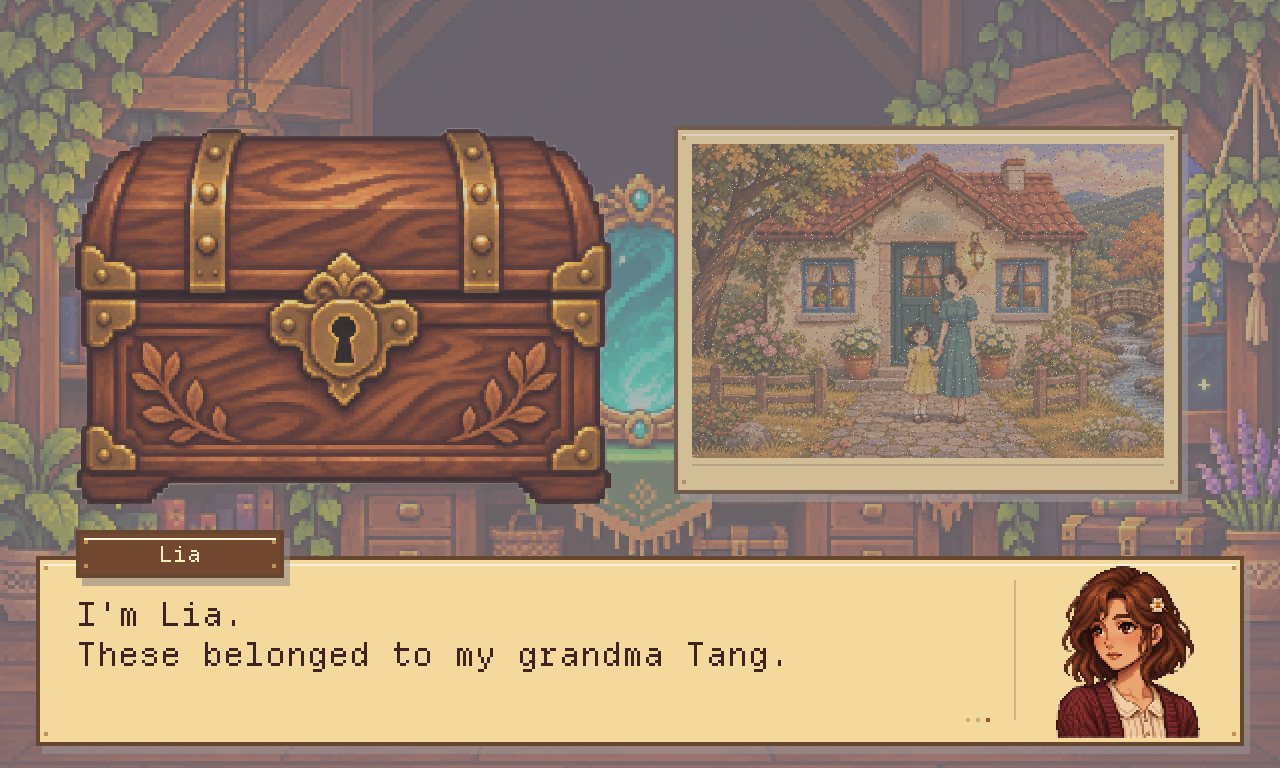
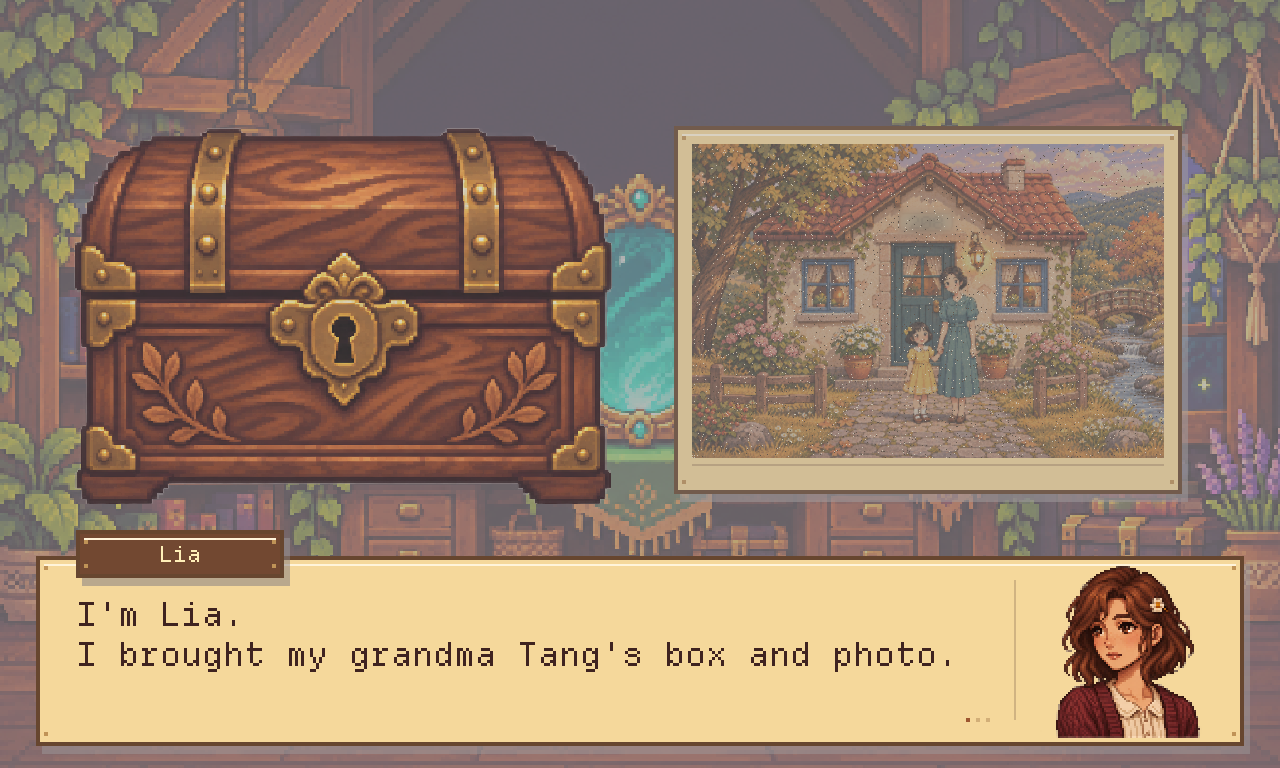
Connect Lia's request to each restored memory

Changed region(s): [[0.0625, 0.8438, 0.75, 0.875]]

diff --git a/src/StoryScript.h b/src/StoryScript.h
@@ -20,11 +20,14 @@ inline std::vector<Speech> opening(){return {
     {"You","This is my little archive.\ntonton is my helper and my friend.",0,Cue::None,true},
     {"You","Someone is at the door.",0,Cue::Doorbell,true},
     {"tonton","Welcome to Mirror Archive!\nHow can we help?",1},
-    {"Lia","I'm Lia.\nThese belonged to my grandma Tang.",0,Cue::ShowKeepsakes},
-    {"You","Please, take your time.\nTell me about her."},
-    {"Lia","Grandma died last month.\nI miss her.",1},
-    {"Lia","She said the password was her first\nhome's address, but I've never been there."},
-    {"You","I'll take good care of them.\nLet's find that house number."},
+    {"Lia","I'm Lia.\nI brought my grandma Tang's box and photo.",0,Cue::ShowKeepsakes},
+    {"You","Take your time.\nWhat would you like us to help with?"},
+    {"Lia","Grandma died last month.\nI miss her so much.",1},
+    {"Lia","I want to know what's inside this box.\nI haven't been able to open it.",1},
+    {"You","Did she ever mention the password?"},
+    {"Lia","She said it was her first house number,\nbut I've never seen that house."},
+    {"You","Maybe the number is in this old photo.\nLet's take a closer look."},
+    {"tonton","The house number has faded.\nLet's restore the photo first.",1,Cue::None,false,Focus::Ready},
     {"tonton","Let's start with Clean.\nDrag over the photo to remove dust.",1,Cue::None,false,Focus::Clean},
     {"tonton","Use Contrast to bring back faded ink.",0,Cue::None,false,Focus::Contrast},
     {"tonton","Use Detail to make small edges clearer.",0,Cue::None,false,Focus::Detail},
@@ -36,28 +39,32 @@ inline std::vector<Speech> opening(){return {
 
 inline std::vector<Speech> foundNumber(){return {
     {"tonton","Nice work!",3},
+    {"tonton","Now let's use the password from the photo\nto open the box."},
     {"tonton","Write one number in each box."},
-    {"tonton","Check the small windows before\npressing Open."},
-    {"tonton","Let's try your number!",1}
+    {"tonton","Check the numbers above your writing\nbefore pressing Open."},
+    {"tonton","Let's see if it opens!",1}
 };}
 
 inline std::vector<Speech> foundEnvelope(){return {
     {"tonton","It opened! You did it!",3},
     {"tonton","There's an envelope inside.",2},
-    {"tonton","Let's open it!",1}
+    {"tonton","Let's see what's inside!",1}
 };}
 inline std::vector<Speech> foundMap(){return {
     {"tonton","There's a map inside!",2},
     {"tonton","It says, 'For my sweetheart Tang.'\nThat's Lia's grandma!",1},
-    {"tonton","Click a map house to see it\nbeside your own photo."},
-    {"tonton","Use Photo if you want to keep repairing."},
-    {"tonton","Let's find her home!\nPress Start camera when you're ready.",1}
+    {"tonton","This looks like a little game.\nLet's guide the letter to her first home."},
+    {"You","The house in the old photo is our clue."},
+    {"tonton","Click a map house to compare it\nwith the house in your photo."},
+    {"tonton","Use Photo if you need a clearer look."},
+    {"tonton","Let's follow the map!\nPress Start camera when you're ready.",1}
 };}
 inline std::vector<Speech> cameraGuide(){return {
-    {"tonton","Hold your hand in the middle first."},
-    {"tonton","Move it to one side and wait\nfor the ring to fill."},
-    {"tonton","Bring it back to the middle\nbefore choosing another direction."},
-    {"tonton","Let's give it a try!",1}
+    {"tonton","Show your hand in the middle of the view."},
+    {"tonton","Move your hand to one side.\nHold it there until the ring fills."},
+    {"tonton","The letter follows the path and stops\nat the next corner or fork."},
+    {"tonton","Bring your hand back to the middle\nbefore choosing the next direction."},
+    {"tonton","Let's bring it home!",1}
 };}
 inline std::vector<Speech> reachedHome(){return {
     {"tonton","You brought it home!\nGreat work!",3},
@@ -65,18 +72,29 @@ inline std::vector<Speech> reachedHome(){return {
     {"tonton","Let's turn it over.\nClick the folded corner.",1}
 };}
 
+inline std::vector<Speech> wrongHouse(){return {
+    {"tonton","This house looks different from the photo.\nLet's look at them side by side."}
+};}
+inline std::vector<Speech> tryPasswordAgain(){return {
+    {"tonton","The numbers above show what I read.\nUse Clear if a number looks wrong."},
+    {"tonton","If they match your writing,\nlet's check the photo again."}
+};}
+
 inline std::vector<Speech> ending(bool peopleRestored=false){return {
+    {"You","Your grandma's mother left her a message\non the back of the map."},
     {"Lia","Grandma always left a light on for me.\nNow I know why.",1},
-    {"You","You do not have to stop missing her.\nYou can keep her love with you."},
+    {"Lia","I wish I could thank her one more time.",1},
+    {"You","I know you miss her.\nI hope this helps you feel close to her."},
     {"You","Here is the photo I worked on.\nTake it home with the letter.",0,Cue::ReturnPhoto},
     {"Lia",peopleRestored?"I can see them holding hands.\nGrandma held my hand like that, too.":"Thank you for taking care of her photo.\nI will keep it close.",2},
     {"Lia","I'll put them by my bed.\nI'll keep a light on, too.",2},
-    {"You","Take care, Lia.\nCome back any time."},
-    {"Lia","I will. Thank you, both of you.",2},
+    {"You","Take care, Lia.\nYou are always welcome here."},
+    {"Lia","Thank you, both of you.\nI will come back.",2},
     {"You","I watch Lia leave with her photo.\nThe room feels quiet again.",0,Cue::LiaLeaves,true},
-    {"tonton","We fixed more than a photo today.",3},
-    {"You","We helped her bring a little of\nhome back with her."},
-    {"tonton","Another light left on.",1},
+    {"tonton","I'm glad she came to us.",1},
+    {"You","Me too.\nI'm glad we could help."},
+    {"tonton","Shall we leave a light on tonight?",1},
+    {"You","Yes. Someone else may need our help\ntomorrow."},
     {"You","I put away my tools.\nIt is time to go home.",0,Cue::None,true}
 };}
 

diff --git a/tests/HomewardTests.cpp b/tests/HomewardTests.cpp
@@ -86,25 +86,33 @@ int main(int argc,char** argv){try{
     check(arrival.size()==3&&arrival[1].words.find("back")!=std::string::npos,"Only arrival reveals the writing on the back");
     check(number[0].happy==3&&envelope[0].happy==3&&arrival[0].happy==3,"Each chapter ends with a happy encouragement");
     auto personal=story::ending(true),quiet=story::ending(false);
-    check(personal[3].words!=quiet[3].words&&personal[3].words.find("held my hand")!=std::string::npos,"Lia responds to the player's actual family repair");
+    auto findLine=[](const std::vector<story::Speech>& script,const std::string& phrase){for(size_t i=0;i<script.size();++i)if(script[i].words.find(phrase)!=std::string::npos)return int(i);return -1;};
+    check(findLine(personal,"held my hand")>=0&&findLine(quiet,"held my hand")==-1,"Lia responds to the player's actual family repair");
     auto opening=story::opening(),ending=story::ending();
     check(opening.front().speaker=="You"&&opening.front().narration,"The player introduces their archive without a speaker plate");
     check(!opening[5].narration&&opening[5].speaker=="You","Spoken player dialogue retains its nameplate");
-    check(ending[7].narration&&ending.back().narration,"Departure and closing thoughts are narration");
+
     int bell=-1,greeting=-1,handover=-1,leave=-1;
     for(size_t i=0;i<opening.size();++i){if(opening[i].cue==story::Cue::Doorbell)bell=i;if(opening[i].speaker=="tonton"&&greeting<0)greeting=i;}
     check(bell>=0&&bell<greeting,"Doorbell comes before the assistant's greeting");
     for(size_t i=0;i<ending.size();++i){if(ending[i].cue==story::Cue::ReturnPhoto)handover=i;if(ending[i].cue==story::Cue::LiaLeaves)leave=i;}
     check(handover>=0&&leave>handover,"Photo is returned before Lia leaves");
+    check(ending[leave].narration&&ending.back().narration,"Departure and closing thoughts are narration");
+    int request=findLine(opening,"inside this box"),password=findLine(opening,"mention the password"),tools=findLine(opening,"start with Clean");
+    check(findLine(opening,"miss her so much")>=0&&request>findLine(opening,"miss her so much")&&password>request&&tools>password,"Lia's grief and request explain the task before the tools");
+    int bridge=findLine(number,"password from the photo");
+    check(bridge>0&&bridge<findLine(number,"Write one number"),"The photo clue connects celebration to opening the box");
+    check(findLine(map,"old photo is our clue")>=0&&findLine(map,"old photo is our clue")<findLine(map,"Click a map house"),"The map goal and photo clue precede the controls");
+    check(findLine(map,"grandma's mother")==-1&&findLine(ending,"grandma's mother")>=0&&findLine(ending,"grandma's mother")<findLine(ending,"Now I know why"),"The mother's message is explained only after reading it, before Lia's response");
     bool playerAfter=false,helperAfter=false;
     for(size_t i=leave+1;i<ending.size();++i){playerAfter|=ending[i].speaker=="You";helperAfter|=ending[i].speaker=="tonton";}
     check(playerAfter&&helperAfter,"The player and helper share the final conversation");
-    auto camera=story::cameraGuide();
+    auto camera=story::cameraGuide(),wrongHouse=story::wrongHouse(),retry=story::tryPasswordAgain();
     check(story::dedication=="For my sweetheart Tang"&&story::letter.find("My dear Tang,")==0,"Map and letter use the requested affectionate wording");
     check(number[0].words.find("Write")==std::string::npos&&arrival[0].words.find("back")==std::string::npos,"Celebrations are separate from instructions and story reveals");
     std::set<story::Focus> highlights;for(auto speech:opening)if(speech.focus!=story::Focus::None)highlights.insert(speech.focus);
     check(highlights.size()==7,"Each photo tool or setting has its own spotlight, followed by an invitation");
-    for(auto script:{opening,ending,personal,number,envelope,map,arrival,camera})for(auto speech:script){
+    for(auto script:{opening,ending,personal,number,envelope,map,arrival,camera,wrongHouse,retry})for(auto speech:script){
         std::istringstream lines(speech.words);std::string line;int count=0;
         while(std::getline(lines,line)){++count;check(line.size()<=44,"NPC line fits the native pixel font");}
         check(count<=2,"Each dialogue box is at most two short lines");

diff --git a/src/ofApp.cpp b/src/ofApp.cpp
@@ -194,7 +194,7 @@ void ofApp::update(){
     if(chapter==2&&(screen==Screen::Play||screen==Screen::Dialogue))updateCamera(now);
     if(moveDuration>0&&screen==Screen::Play&&now>=moveAt+moveDuration){moveDuration=0;
         if(maze.solved())finishChapter();
-        else if(maze.house(maze.position)&&!wrongHomeHint){wrongHomeHint=true;say({{"tonton","This looks different from the photo.\nLet's compare them again."}});}
+        else if(maze.house(maze.position)&&!wrongHomeHint){wrongHomeHint=true;say(story::wrongHouse());}
     }
     for(int i=0;i<3;++i)if(inkDue[i]>0&&now>=inkDue[i]&&drawingCell!=i){guesses[i]=reader.guess(writing[i]);recognized[i]=guesses[i].digit;inkDue[i]=0;}
     if(screen==Screen::Play&&chapter==2&&moveDuration<=0&&inspectedHouse<0&&cameraTipPending){
@@ -596,7 +596,7 @@ void ofApp::pointerDown(glm::vec2 p){
             for(int i=0;i<3;++i)if(inkDue[i]>0){guesses[i]=reader.guess(writing[i]);recognized[i]=guesses[i].digit;inkDue[i]=0;}
             if(recognized==std::array<int,3>{2,0,8})finishChapter();
             else{notice="The box is still locked.";noticeUntil=ofGetElapsedTimef()+3;
-                if(++lockAttempts==2)say({{"tonton","Check the small number windows.\nIf they look right, check the photo."}});}
+                if(++lockAttempts==2)say(story::tryPasswordAgain());}
         }
     }else{
         if(delivered){if(nextButton.inside(p)){screen=Screen::Letter;letterOpened=false;letterAt=ofGetElapsedTimef();}return;}
@@ -656,9 +656,12 @@ void ofApp::runQA(){
         if(cue==story::Cue::Doorbell){capture("qa-doorbell.png");checkQA(bool(bellsPlayed==1&&doorbell.isLoaded()),__LINE__);}
         if(cue==story::Cue::ReturnPhoto){capture("qa-handover.png");checkQA(bool(giftReturned&&giftPhoto.isAllocated()&&!returnedPhoto.empty()&&cv::norm(returnedPhoto,repair.image(),cv::NORM_INF)==0&&cv::countNonZero(repair.mask)<int(repair.mask.total())),__LINE__);}
         if(cue==story::Cue::LiaLeaves)capture("qa-goodbye.png");
+        if(outro&&speechIndex>0&&dialogue[speechIndex-1].cue==story::Cue::ReturnPhoto)capture("qa-lia-response.png");
+        if(!intro&&!outro&&chapter==1&&dialogue[speechIndex].words.find("password from the photo")!=std::string::npos)capture("qa-photo-to-box.png");
+        if(intro&&dialogue[speechIndex].words.find("inside this box")!=std::string::npos)capture("qa-lia-request.png");
         if(!intro&&!outro&&chapter==2&&!delivered&&!envelopeOpened){checkQA(afterDialogue==Screen::Envelope,__LINE__);capture("qa-open-box.png");}
         if(!intro&&!outro&&chapter==2&&dialogue[speechIndex].words.find("Click a map house")!=std::string::npos&&!delivered)capture("qa-photo-guide.png");
-        if(!intro&&!outro&&chapter==2&&dialogue[speechIndex].words.find("Hold your hand")!=std::string::npos&&!delivered)capture("qa-camera-guide.png");
+        if(!intro&&!outro&&chapter==2&&dialogue[speechIndex].words.find("Show your hand")!=std::string::npos&&!delivered)capture("qa-camera-guide.png");
         if(delivered&&!outro&&speechIndex==0)capture("qa-map-success.png");
         if(delivered&&!outro&&speechIndex==2)capture("qa-turn-guide.png");
         if(dialogue[speechIndex].focus!=story::Focus::None){

diff --git a/docs/TECHNICAL.md b/docs/TECHNICAL.md
@@ -10,7 +10,7 @@ Lia 有平静、难过、释然三个表情。序章先展示工作室；Lia 开
 
 ### 剧情事件与道具
 
-`StoryScript.h` 集中保存简单英文台词及明确的剧情事件。开场先由玩家介绍档案馆和助手，再触发一次本地合成门铃，之后 tonton 欢迎 Lia。开箱只呈现信封；独立 Envelope 状态等待玩家点击信封或 Open envelope，才设置 envelopeOpened 并展示地图。打开前无法移动地图角色，重玩会重置封口状态。完成迷宫后才提示地图背面的文字；不提前揭露作者。结尾按“安慰 → 归还照片 → Lia 离开 → 玩家与助手收尾”推进；事件仅在进入对应台词时执行，不随绘制帧重复触发。
+`StoryScript.h` 集中保存简单英文台词及明确的剧情事件。开场先由玩家介绍档案馆和助手，再触发一次本地合成门铃，之后 tonton 欢迎 Lia。Lia 先表达思念和想打开遗物箱的愿望，玩家再询问密码、提出从照片找门牌；找到线索后的庆祝与“用照片里的密码开箱”分框呈现。开箱只呈现信封；独立 Envelope 状态等待玩家点击信封或 Open envelope，才设置 envelopeOpened 并展示地图。打开前无法移动地图角色，重玩会重置封口状态。完成迷宫后才提示地图背面的文字；不提前揭露作者。地图先解释找老家的目标和照片线索，再介绍控件。结尾按“说明留言来自祖母的妈妈 → Lia 回忆留灯 → 安慰 → 归还照片 → Lia 离开 → 玩家与助手决定留灯”推进；事件仅在进入对应台词时执行，不随绘制帧重复触发。
 
 封面提供人物、说明与声音开关；镜面微光、浮尘和 START 上下轻浮动由时间驱动；移除了飞蛾。START 的点击区域覆盖整个浮动范围，封面与对话框区域使用像素放大镜光标。imagegen 生成的箱子开／关、信封、信纸和标题牌在运行时裁去透明留白、保持宽高比并采用最近邻采样。姓名与按钮文字按实际字形包围盒居中，坐标取整；“You”台词不显示 NPC 肖像；`Speech::narration` 明确区分旁白与说话，旁白隐藏姓名牌。地图题签统一为 For my sweetheart Tang，信件称呼为 My dear Tang,。翻信前 tonton 提示折角，点击纸面后播放短翻转；信件正文、称呼和署名共享同一个文字样式，结束操作为 Bring it to Lia。
 
@@ -60,7 +60,7 @@ Python 工作进程独占 OpenCV `VideoCapture`。镜像、缩放至 320×240、
 
 ## 验证边界
 
-`HomewardTests.cpp` 验证局部门牌褪色只影响指定区域、默认滤镜将门牌字底亮度差从约 14 提升到约 80、平坦暖色墙面不会被局部褪色染成异色、三关的开心鼓励、信封／地图／背面留言的顺序、真实滤波改善、不同亮度范围的自适应伸展、平坦输入稳定性、强度变化与撤销、局部作用、独立数字留出集、不同写法的 8、掌心回中／停留／禁止连发／丢失重置／斜向与墙壁抑制，每条移动路径保持同一方向、在岔口／弯角／房屋停下，以及所有可达停靠点都能回到终点。旧四向光流测试只证明旧算法回归。
+`HomewardTests.cpp` 验证局部门牌褪色只影响指定区域、默认滤镜将门牌字底亮度差从约 14 提升到约 80、平坦暖色墙面不会被局部褪色染成异色、三关的开心鼓励、委托动机先于教程、照片密码先于开箱教学、作者说明先于 Lia 回应、信封／地图／背面留言的顺序、真实滤波改善、不同亮度范围的自适应伸展、平坦输入稳定性、强度变化与撤销、局部作用、独立数字留出集、不同写法的 8、掌心回中／停留／禁止连发／丢失重置／斜向与墙壁抑制，每条移动路径保持同一方向、在岔口／弯角／房屋停下，以及所有可达停靠点都能回到终点。旧四向光流测试只证明旧算法回归。
 
 `--qa` 使用真实鼠标事件画画和手写数字，方向键走迷宫，验证完整故事、强度撤销、只读对比、房屋近景、照片返回与迷宫位置保持，以及归还照片的像素一致性；`--qa-camera` 检查实际工作进程收帧、预览解码及关闭。摄像头画面不写入 QA 截图。自动测试不能代替不同用户、光照和设备下的真人手掌试玩。
 

diff --git a/docs/DEMO.md b/docs/DEMO.md
@@ -1,13 +1,13 @@
 # 留灯演示路线（剧透）
 
-1. Start。以“我”的视角介绍自己创办的 Mirror Archive 和助手 tonton。门铃响起后欢迎 Lia；她带来奶奶留下的照片和箱子。点击对话框／空格继续；介绍遗物时镜头推近，tonton 随后依次高亮工具并用短句说明；工具教学时对话框移到上方，可点击对话框或按空格继续。
+1. Start。以“我”的视角介绍自己创办的 Mirror Archive 和助手 tonton。门铃响起后欢迎 Lia；她带来奶奶留下的照片和箱子，说自己很想念奶奶，也想知道箱子里到底有什么。玩家询问密码，才引出照片线索。点击对话框／空格继续；介绍遗物时镜头推近，tonton 随后依次高亮工具并用短句说明；工具教学时对话框移到上方，可点击对话框或按空格继续。
 2. Clean 刷掉门牌附近噪点，Contrast 加强褪色文字，再试 Detail。用 + / - 改大小，Strength 调整当前工具强度，Undo 撤销。按住 Original 或空格 看受损原貌，松开恢复自己的修复。门牌是 **208**。无需涂满，点 **I found the password!**。
-3. 按引导在三格手写 **2 / 0 / 8**。8 可以画连续交叉圈，也可以画上下两圈。停笔后看小窗口；必要时选候选或 Clear 重写。Photo 返回第一关继续修复，Back to the box 返回箱子。Open，tonton 先用独立对话框为开锁成功欢呼，再发现信封。
+3. tonton 鼓励后先说明要用照片中的密码打开箱子，再按引导在三格手写 **2 / 0 / 8**。8 可以画连续交叉圈，也可以画上下两圈。停笔后看小窗口；必要时选候选或 Clear 重写。Photo 返回第一关继续修复，Back to the box 返回箱子。Open，tonton 先用独立对话框为开锁成功欢呼，再发现信封。
 4. 开箱时只看到信封。点击 **Open envelope** 或信封本身，再发现里面的地图和「For my sweetheart Tang」。此时不透露地图作者或背面的留言。
 5. **Start camera**。手掌放预览中间，移向方向区域并停到环满；回中间后再选下一方向。无需快速挥手或捏合。信封沿选定方向通过直路，到岔口、弯角、房屋或尽头就停。转弯需要新的方向输入。
 6. 一条短路线：**右、右、右、上、左、上、右、上**。依次到 (3,7)、(5,7)、(9,7)、(9,5)、(7,5)、(7,3)、(11,3)、(11,1)。先观察岔路和房子；蓝顶面包店、紫顶邮局不是老家。点击房屋看近景，与玩家修复后的照片并排比较。Photo 可返回继续修复，Back to the map 回到原来的位置；tonton 不直接透露目标特征。走错可原路返回。
 7. 到家，tonton 先开心庆祝、发现地图背面的字，再提示点击折角。点击右下折角翻纸，读「I will leave the light on for you. Love, Mom」。
-8. 点击 **Bring it to Lia**。Lia 想起奶奶也总为她留灯。“我”安慰她、亲手归还玩家实际修复的照片；没有自动补修或额外提问。Lia 道谢离开后，“我”和 tonton 谈起今天的委托；人物区域有可见修复时，Lia 会说奶奶也曾这样牵她的手。最后 Keep a copy 选择位置导出自己的 PNG，Go home 回封面。
+8. 点击 **Bring it to Lia**。玩家先说明留言是奶奶的妈妈写下的，Lia 才想起奶奶也总为她留灯。“我”安慰她、亲手归还玩家实际修复的照片；没有自动补修或额外提问。Lia 道谢离开后，“我”和 tonton 谈起今天的委托；人物区域有可见修复时，Lia 会说奶奶也曾这样牵她的手。最后 Keep a copy 选择位置导出自己的 PNG，Go home 回封面。
 9. 可补充展示封面的 Meet us / About，以及右下角的小喇叭声音开关；背景有微光和浮尘，START 轻轻上下浮动。
 
 算法解释放报告，游戏内保持短句。视频建议包含一次滤镜对比、一次多笔写 8，以及真实手掌回中→选方向→停留确认的画面。自动 QA 走迷宫用的是方向键，不能把截图或自动通关说成真人手势测试。摄像头画面录制用于提交视频前由玩家自行决定。

diff --git a/README.md b/README.md
@@ -2,7 +2,7 @@
 
 A small pixel-art story made for the **CityUHK CS4187 Mini Project**.
 
-You run Mirror Archive, a place that repairs old photos and keepsakes. Your helper is a little pig named **tonton**. One evening, Lia brings her late grandma Tang's photo and a locked box. Help her find the memory inside.
+You run Mirror Archive, a place that repairs old photos and keepsakes. Your helper is a little pig named **tonton**. One evening, Lia brings her late grandma Tang's photo and a locked box. She misses her grandma and wants to know what she left inside. Help her follow the clues and bring that memory home.
 
 Built with **openFrameworks, OpenCV, and MediaPipe**. No physical props are needed.
 
@@ -88,7 +88,7 @@ build/Build/Products/Release/MirrorArchive.app/Contents/MacOS/MirrorArchive --qa
 build/Build/Products/Release/MirrorArchive.app/Contents/MacOS/MirrorArchive --qa-camera
 ```
 
-Current algorithm checks: **85 legacy checks, 1000 story checks, and 6 Python tests passed**. The digit reader scored **2369 / 2500 (94.76%)** on held-out samples. It also passed the mouse-written password and nine two-loop versions of 8. These results do not guarantee every person's handwriting will be read correctly.
+Current algorithm checks: **85 legacy checks, 1066 story checks, and 6 Python tests passed**. The digit reader scored **2369 / 2500 (94.76%)** on held-out samples. It also passed the mouse-written password and nine two-loop versions of 8. These results do not guarantee every person's handwriting will be read correctly.
 
 The latest real-camera check received 41 frames on first start and 16 after returning from photo editing. Both sessions closed successfully; no camera images were saved.
 
